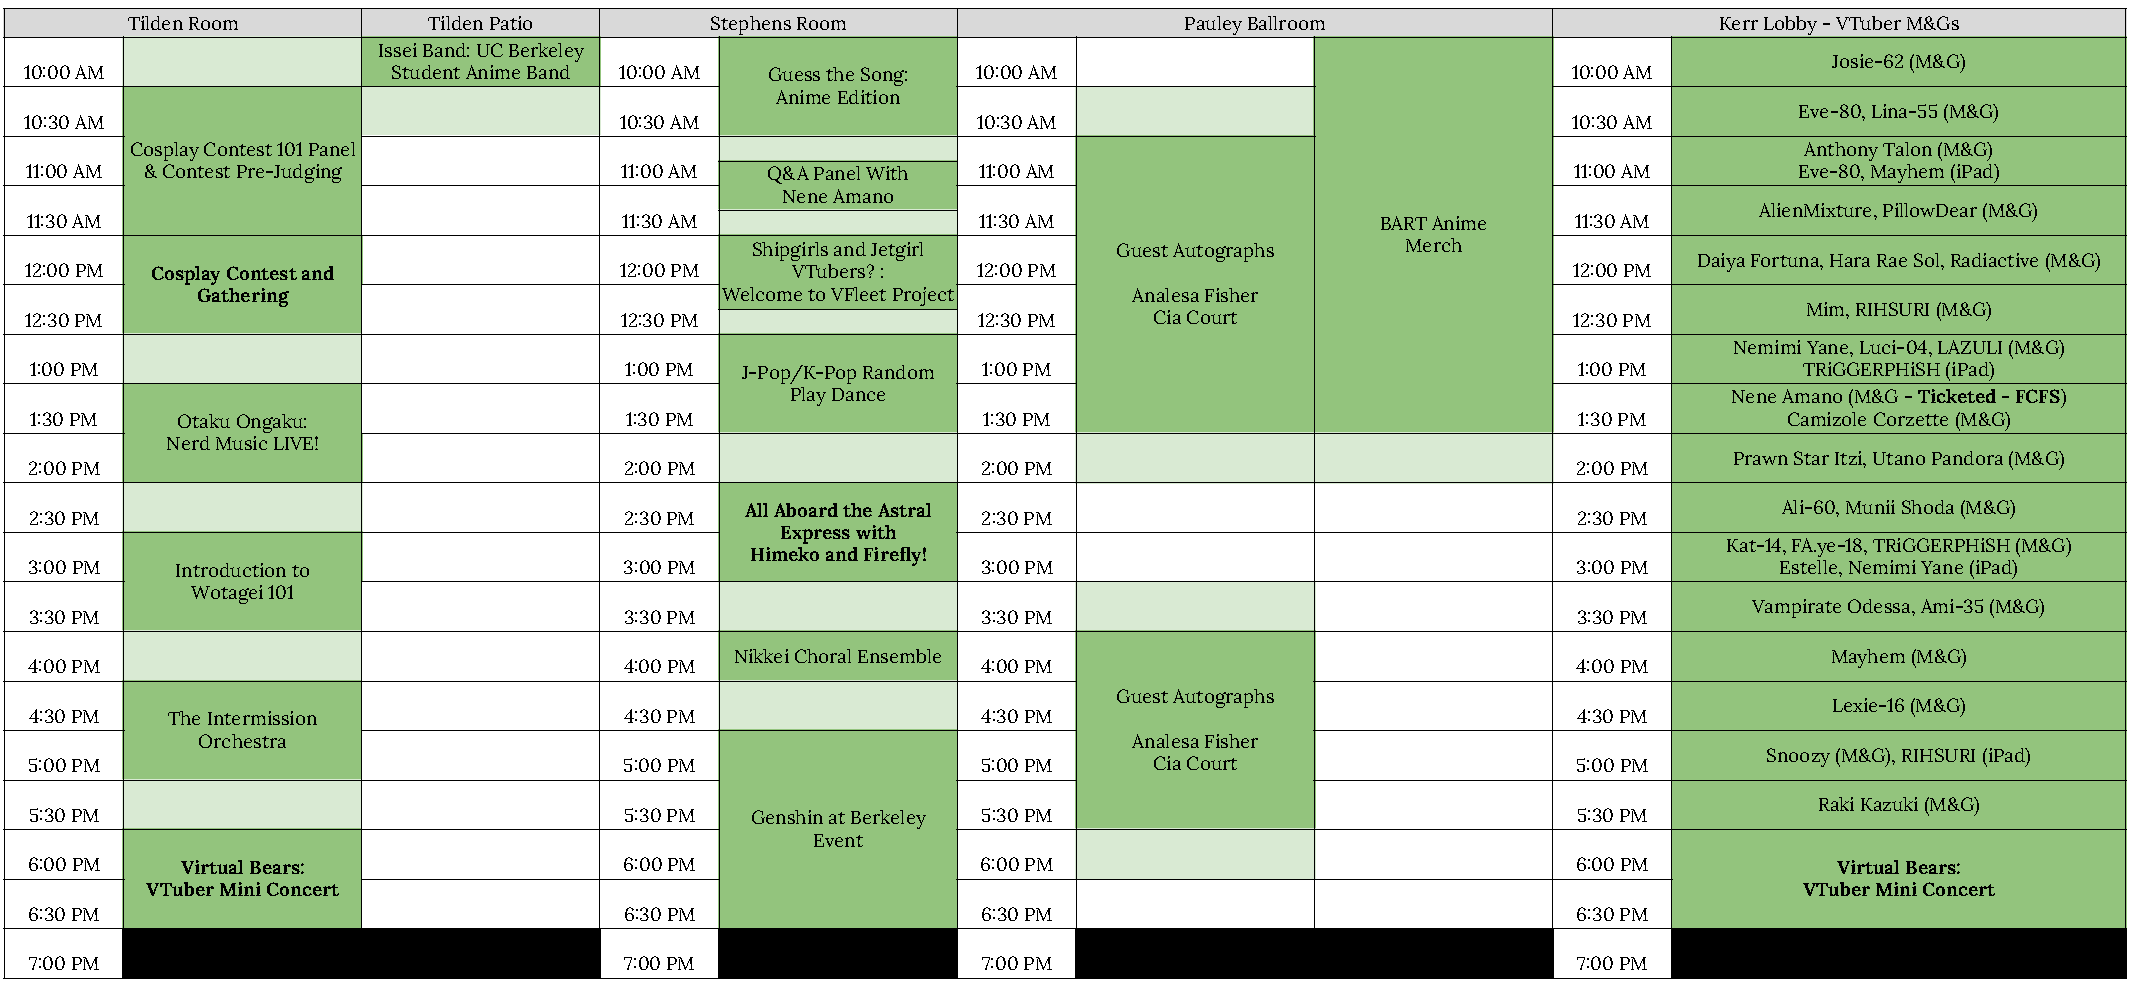
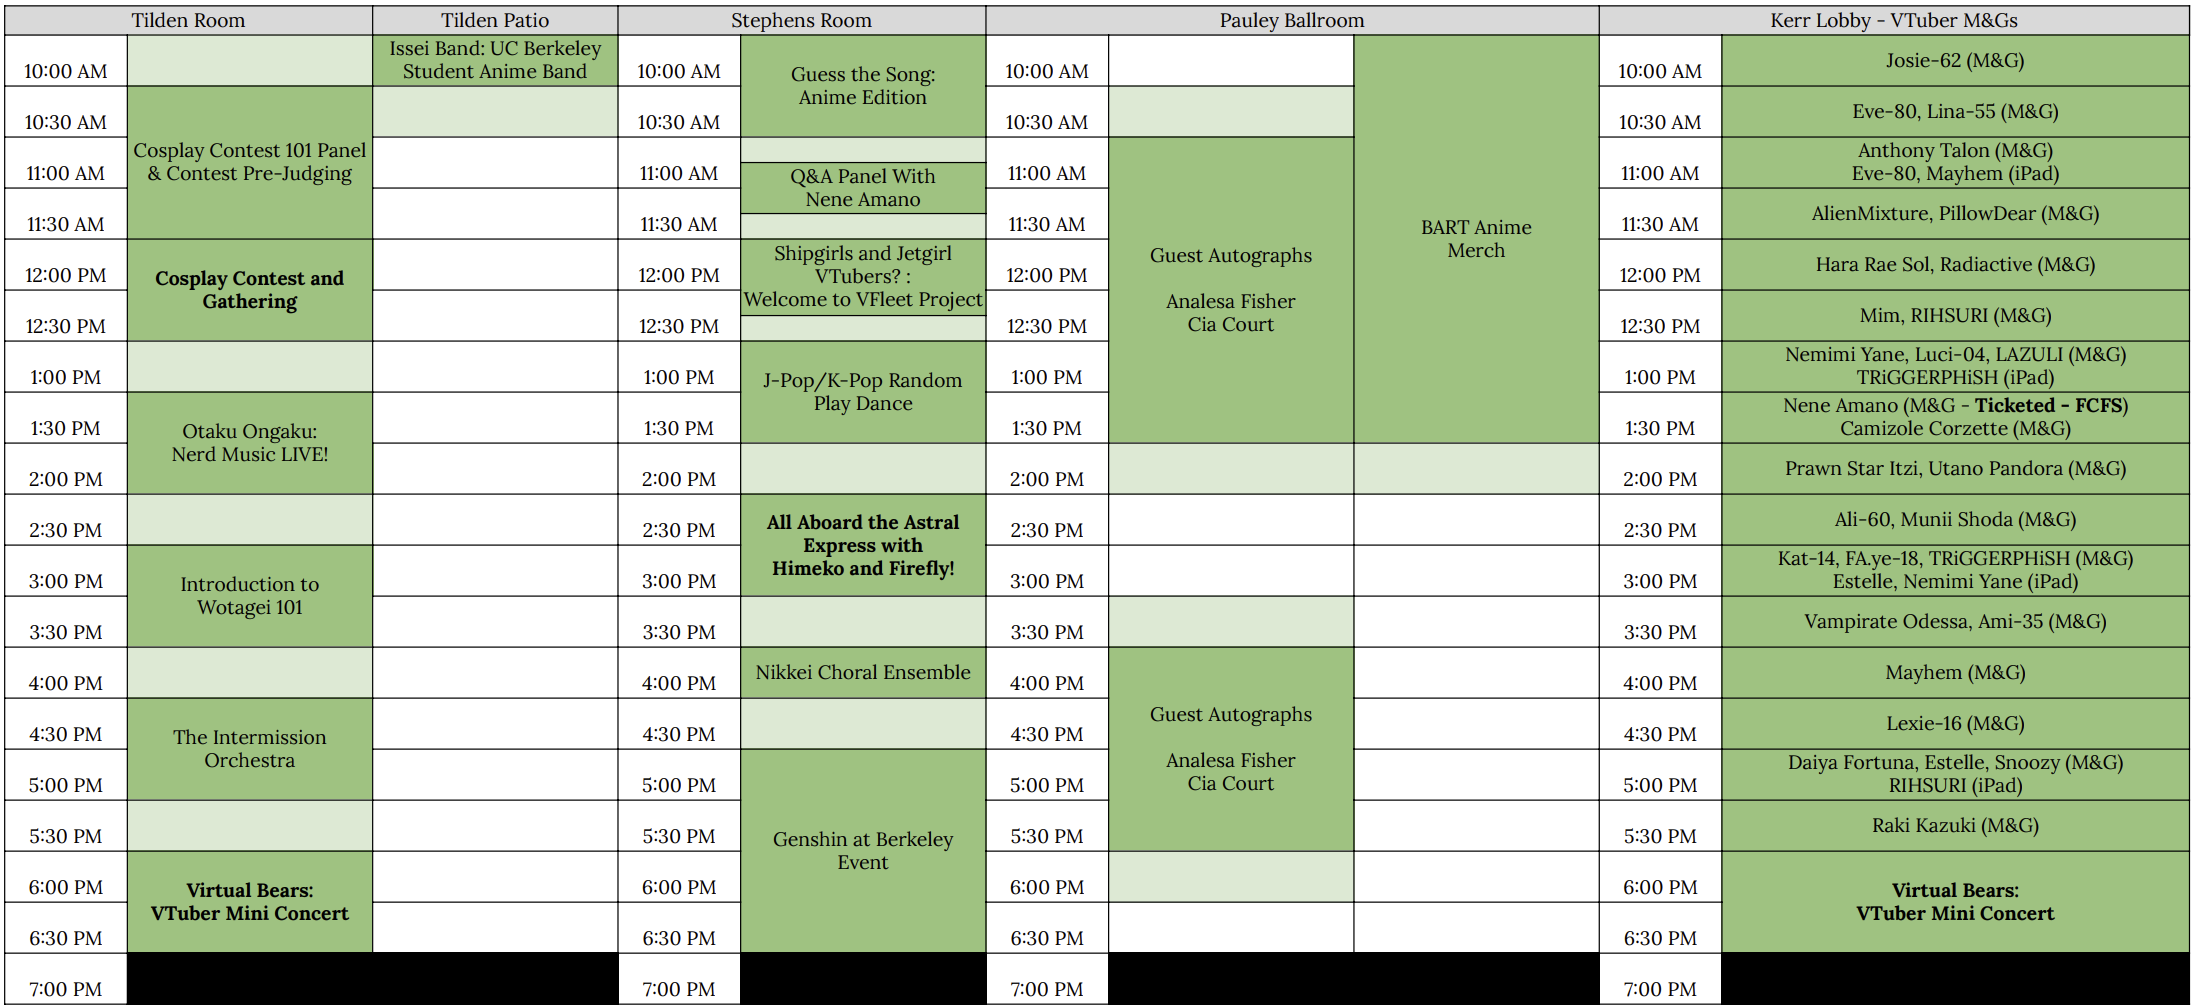
add/update images

diff --git a/src/routes/+page.svelte b/src/routes/+page.svelte
@@ -257,15 +257,6 @@
           Here is the schedule of events for Anime Destiny 2025. For more detailed descriptions of each event, please visit our <a href="/programming" style="color: #485077; text-decoration: underline;">Programming Page.</a>
         </p>
 
-        <div style="padding-right: 2rem;">
-          <h3 style="font-family: 'Roboto', sans-serif; font-size: 1.5rem; color: #485077; margin-bottom: 0.5rem;">Parking Information:</h3>
-          <p style="font-family: 'Montserrat', sans-serif; font-size: 1.1rem; color: #485077; margin-bottom: 1rem;">
-              For info about street parking, visit the <a href="/parking" style="color: #485077; text-decoration: underline;">parking page</a>.
-          </p>
-        </div>
-        
-        
-
         <div class="content-container">
           <img src="images/schedule.temp.png" class="ADMap" alt="Artist Alley Map" on:click={openOverlayADSchedule} />
           <div style="padding:1rem 0;">
@@ -278,6 +269,30 @@
             <img src="images/schedule.temp.png" on:click|stopPropagation class="image-artist-map" alt="Fullscreen AD Map" />
           </div>
         {/if}
+        
+        <h3 style="font-family: 'Roboto', sans-serif; font-size: 1.5rem; color: #485077; margin-bottom: 0.5rem;">Event map:</h3>
+        
+
+        <div class="content-container">
+          <img src="images/AD 2025 MAP.png" class="ADMap" alt="Artist Alley Map" on:click={openOverlayArtistMap} />
+          <div style="padding:1rem 0;">
+          <a on:click={openOverlayArtistMap}>Click for larger image!</a>
+          </div>
+        </div>
+        {#if showOverlayArtistMap}
+          <div class="overlay-artist-map"  on:click={closeOverlayArtistMap} in:fade={{ duration: 200 }} out:fade={{ duration: 200 }} >
+            <button class="close-button-artist-map" on:click={closeOverlayArtistMap}>✕</button>
+            <img src="images/AD 2025 MAP.png" on:click|stopPropagation class="image-artist-map" alt="Fullscreen AD Map" />
+          </div>
+        {/if}
+
+
+        <div style="padding-right: 2rem;">
+          <h3 style="font-family: 'Roboto', sans-serif; font-size: 1.5rem; color: #485077; margin-bottom: 0.5rem;">Parking Information:</h3>
+          <p style="font-family: 'Montserrat', sans-serif; font-size: 1.1rem; color: #485077; margin-bottom: 1rem;">
+              For info about street parking, visit the <a href="/parking" style="color: #485077; text-decoration: underline;">parking page</a>.
+          </p>
+        </div>
         
         <div class="content-container">
           <img src="images/parking.jpg" class="ADMap" alt="Artist Alley Map" on:click={openOverlayADMap} />

diff --git a/src/routes/artists/+page.svelte b/src/routes/artists/+page.svelte
@@ -42,19 +42,19 @@ import { fade } from 'svelte/transition';
   </div>
 
   <!-- Remove this comment once the final artist alley map is complete-->
-  <!-- <div class="content-container">
-  <img src="images/AD artist alley map.png" class="ADMap" alt="Artist Alley Map" on:click={openOverlayArtistMap} />
+  <div class="content-container">
+  <img src="images/AD 2025 Detailed Map.png" class="ADMap" alt="Artist Alley Map" on:click={openOverlayArtistMap} />
     <div style="padding:1rem 0;">
     <a on:click={openOverlayArtistMap}>Click for larger image!</a>
     </div>
     {#if showOverlayArtistMap}
       <div class="overlay-artist-map"  on:click={closeOverlayArtistMap} in:fade={{ duration: 200 }} out:fade={{ duration: 200 }} >
         <button class="close-button-artist-map" on:click={closeOverlayArtistMap}>✕</button>
-        <img src="images/AD artist alley map.png" on:click|stopPropagation class="image-artist-map" alt="Fullscreen Artist Alley Map" />
+        <img src="images/AD 2025 Detailed Map.png" on:click|stopPropagation class="image-artist-map" alt="Fullscreen Artist Alley Map" />
       </div>
     {/if}
 
-  </div>  -->
+  </div>
 
 
   <div class="artists-grid">
